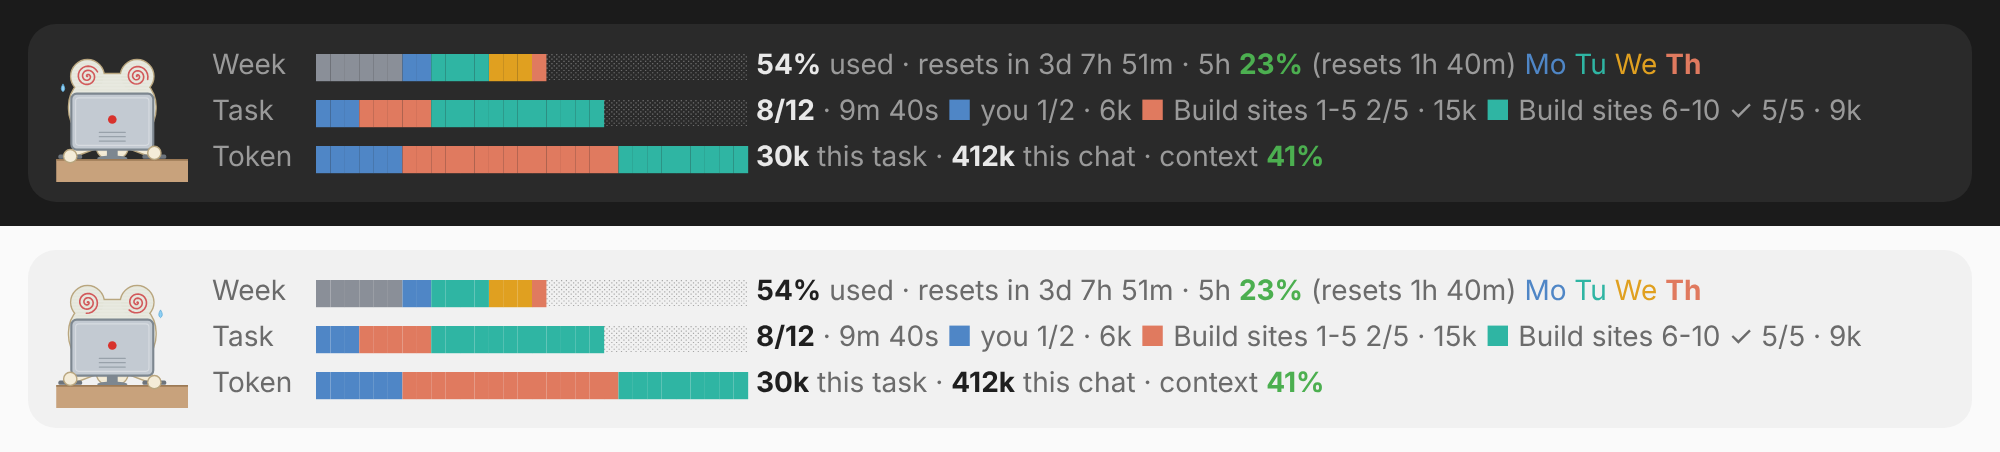
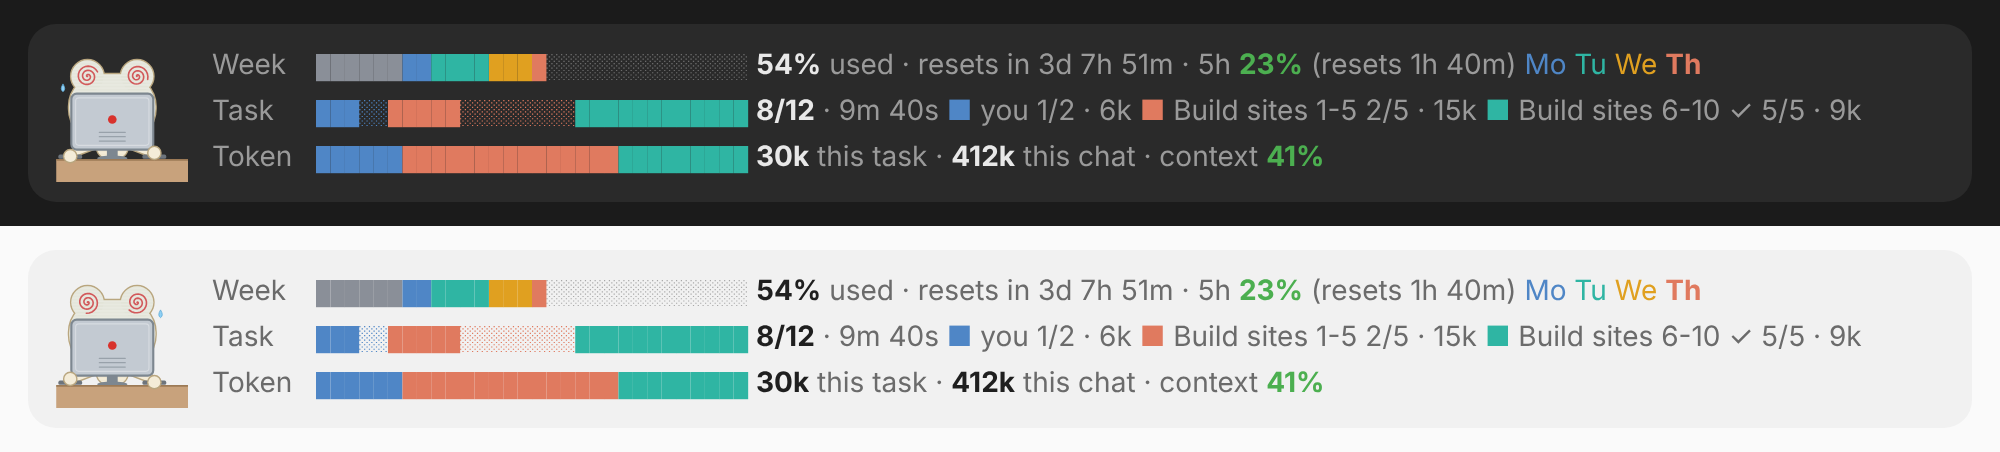
Task bar: one lane per worker again, with what's left shaded
With helpers, the Task bar shows a lane per worker sized by its share
of the to-do items: solid for done, a light shade of its colour for
what's still to do, so each helper's remaining work is visible.

Claude-Session: https://claude.ai/code/session_01JtoWSS4hHwE8T4PegbGPHs

Changed region(s): [[0.155, 0.7124, 0.372, 0.8053], [0.155, 0.2168, 0.372, 0.3097]]

diff --git a/hooks/register.tsx b/hooks/register.tsx
@@ -154,6 +154,23 @@ function segments(parts: { weight: number; color: string }[], cells: number): Se
   return parts.map((p, i) => ({ len: lens[i] ?? 0, color: p.color })).filter(x => x.len > 0)
 }
 
+/**
+ * One lane per worker across the whole bar, as wide as its share of the to-do
+ * items: the finished part solid in its colour, the rest a light shade of it.
+ */
+function lanes(parts: { done: number; total: number; color: string }[], cells: number): Seg[] {
+  const live = parts.filter(p => p.total > 0)
+  const widths = allot(live.map(p => p.total), cells)
+  return live.flatMap((p, i) => {
+    const width = widths[i] ?? 0
+    const solid = Math.min(width, Math.round((p.done / p.total) * width))
+    return [
+      { len: solid, color: p.color },
+      { len: width - solid, color: p.color, shade: true },
+    ].filter(x => x.len > 0)
+  })
+}
+
 
 async function loadPngs($: EngineInterface): Promise<void> {
   for (const mood of ['happy', 'neutral', 'worried']) {
@@ -673,14 +690,12 @@ export const register: Register = on => {
     const totalAll = workers.reduce((n, w) => n + w.total, 0)
     const taskLabel = hasHelpers && totalAll > 0 ? `${doneAll}/${totalAll}` : tLabel
 
-    // The bar fills toward 100% as items get done: alone, green to red; with
-    // helpers, the filled part is coloured by who finished what.
+    // Alone, the bar fills green to red. With helpers it has one lane per
+    // worker, as wide as its share of the to-do items: solid for what it has
+    // finished, a light shade of its colour for what it still has to do.
     const tSegs: Seg[] =
       hasHelpers && totalAll > 0
-        ? segments(
-            workers.map(w => ({ weight: w.done, color: w.color })),
-            Math.round((doneAll / totalAll) * W),
-          )
+        ? lanes(workers, W)
         : [{ len: Math.round((Math.min(100, tPct) / 100) * W), color: total > 0 ? tone(tPct) : 'suggestion' }]
 
     // How long the task has taken: live while it runs, final once it ends.

diff --git a/README.md b/README.md
@@ -25,11 +25,11 @@ When Claude hands parts of a task to helpers, the band shows who's doing what, w
 
 ![The band with two helpers at work](docs/helpers.png)
 
-- **Task bar:** fills up toward 100% as to-do items get done, by anyone. The filled part is coloured by who finished those items.
+- **Task bar:** one lane per worker, as wide as its share of the to-do items. The solid part of a lane is what that worker has finished; the light, dotted part in the same colour is what it still has to do. A helper at `2/5` is two-fifths solid, and a finished helper's lane is solid all the way.
 - **Task text:** becomes the colour key: `■ you 1/2 · 6k`, then each helper's job, its own progress and its tokens. `✓` means that helper has finished, `✗` that it failed. A helper with no to-do list shows how many steps it has taken instead.
 - **Token bar:** the whole bar is this task's tokens, split by who used what share. With no helpers, it instead fills against `taskTokenSoftCap`.
 
-**An example:** you ask Claude to build 10 sites, and it hands sites 1–5 to one helper and 6–10 to another. The Task row counts every to-do item together, so the bar shows the whole job filling up. The key shows each helper's own `2/5` or `✓ 5/5`. The Token bar shows that the coral helper used half of the task's tokens.
+**An example:** you ask Claude to build 10 sites, and it hands sites 1–5 to one helper and 6–10 to another. The Task bar shows each helper's lane filling up, so you can see at a glance who's done and who still has work left. The key shows each helper's own `2/5` or `✓ 5/5`. The Token bar shows that the coral helper used half of the task's tokens.
 
 ## Meet the frog
 
